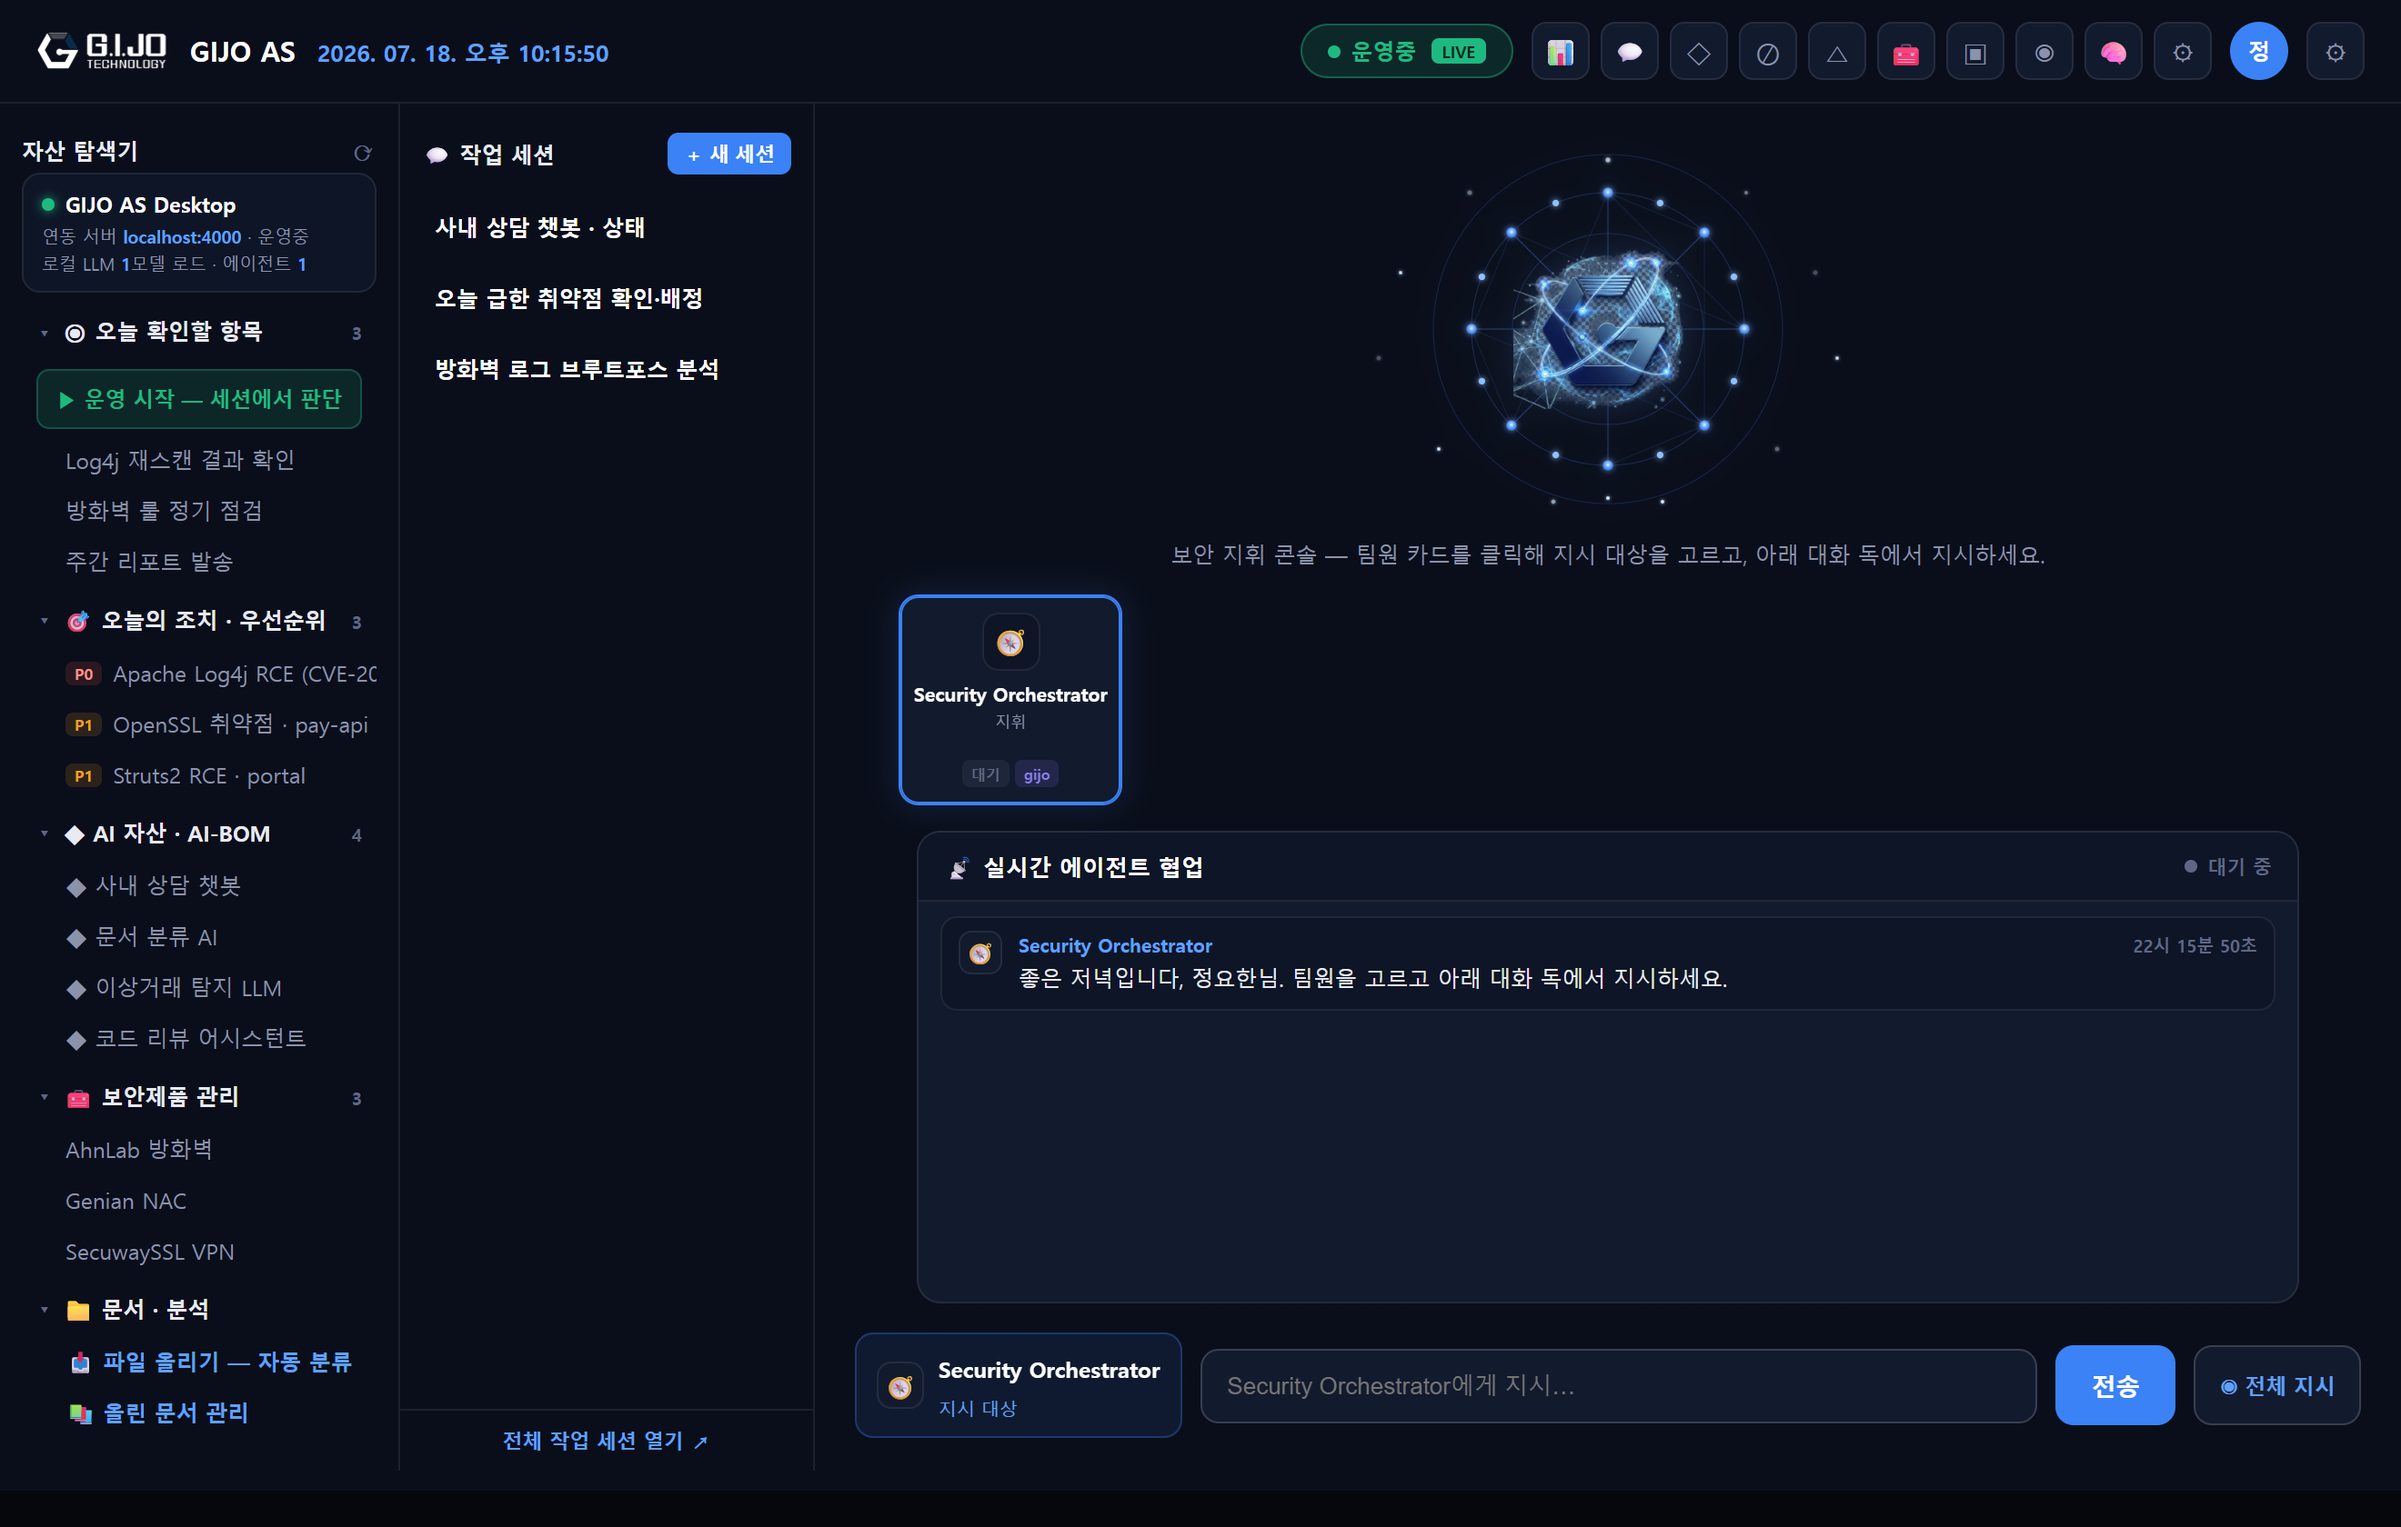
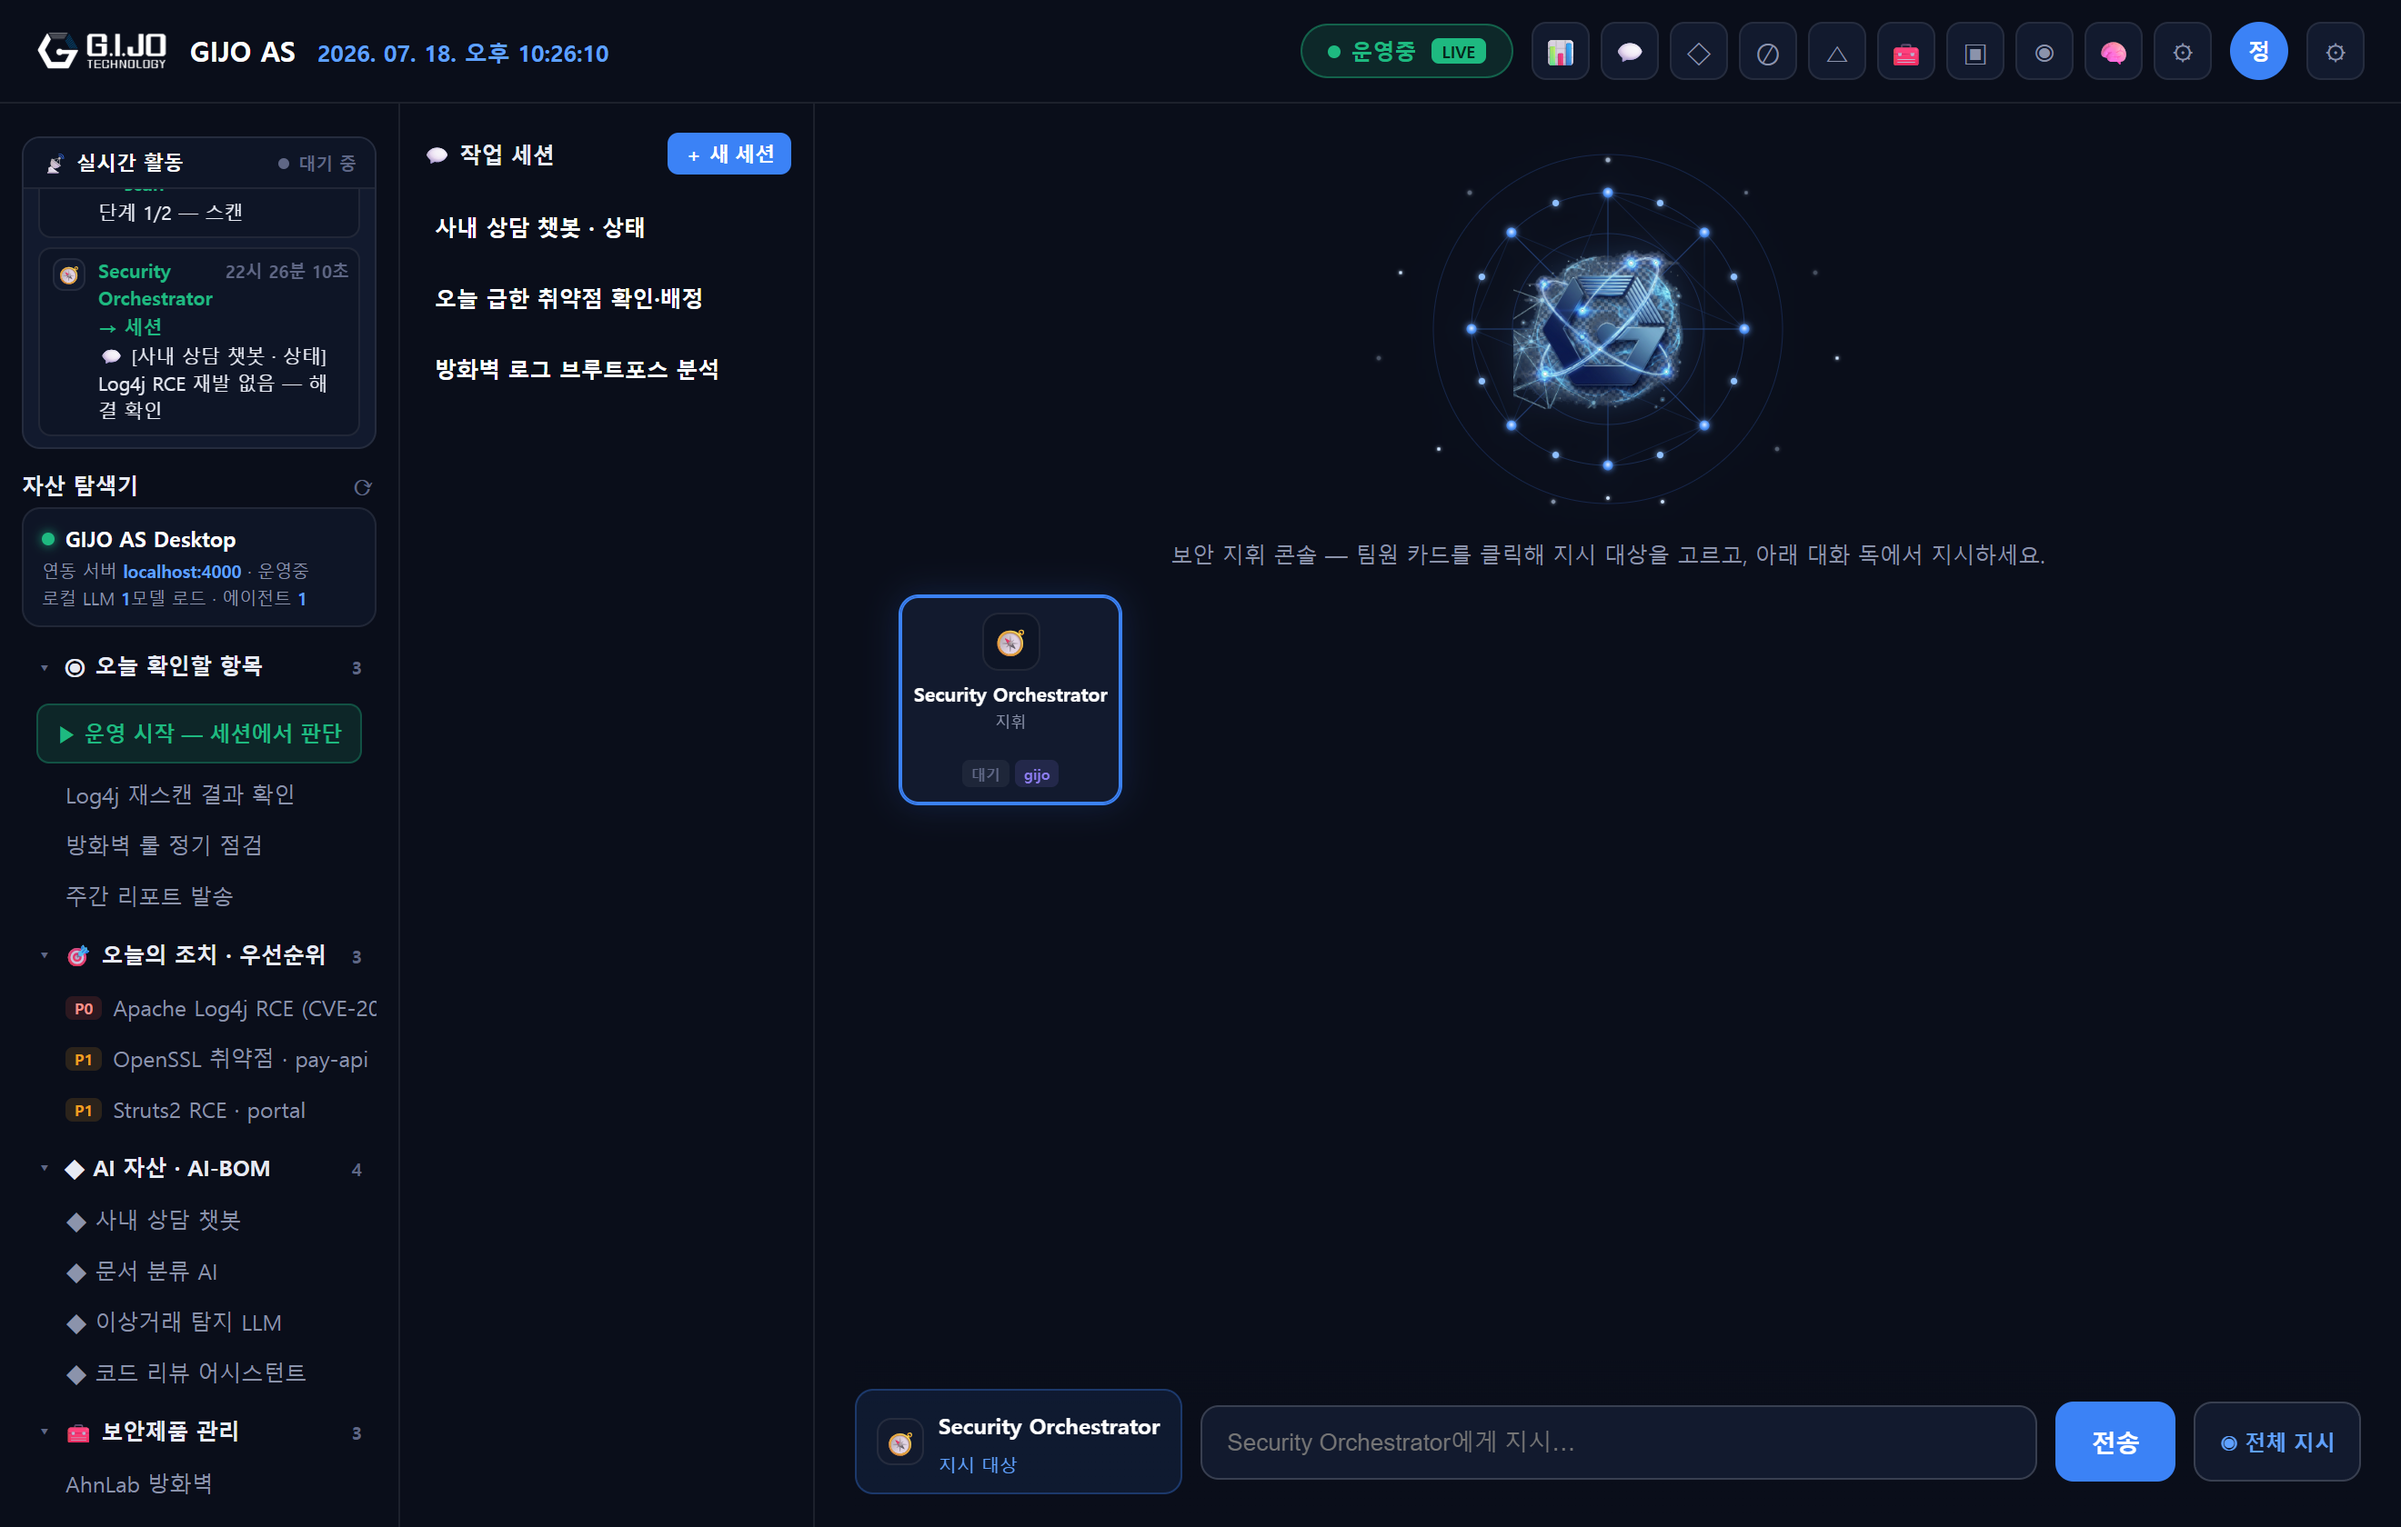
작업 세션 활동을 실시간 협업 로그에 표시 + 로그 콤팩트화(자산 탐색기 위로)
- dispatcher: 세션에서 온 지시·응답을 실시간 협업 이벤트로 발신(💬 [세션제목] 꼬리표, from="세션"). 자동 제목 반영 위해 user 턴 기록 후 제목 재조회
- dashboard: 실시간 협업 로그를 center-stage에서 좌측 "자산 탐색기 위"로 이동 + 콤팩트화(높이 172px·작은 폰트) → 중앙 공간 확보
- 테스트: 세션 지시 후 /api/collaboration/history에 세션 제목 꼬리표 이벤트 유입 검증. 전체 506 green
- 운영 서버(4000) 새 빌드로 재배포. 실 렌더 캡처로 확인(JS 오류 0)

diff --git a/client/src/renderer/pages/dashboard.html b/client/src/renderer/pages/dashboard.html
@@ -128,20 +128,20 @@
 
   .stage-core{position:relative;width:100%;max-width:300px;}
 
-  /* 실시간 에이전트 협업 — 지휘 콘솔 아래 전체 폭, 남은 세로 공간을 꽉 채운다(flex:1). 지시·위임·답변 라이브. */
-  .collab-live{width:100%;max-width:760px;margin-top:14px;background:var(--panel);border:1px solid var(--border);border-radius:13px;overflow:hidden;display:flex;flex-direction:column;flex:1 1 auto;min-height:150px;}
-  .cl-head{display:flex;align-items:center;justify-content:space-between;padding:10px 14px;background:var(--panel-2);border-bottom:1px solid var(--border);flex:0 0 auto;}
-  .cl-title{font-size:12.5px;font-weight:800;color:#fff;}
-  .cl-status{font-size:10.5px;font-weight:800;color:var(--muted-2);display:flex;align-items:center;gap:6px;}
-  .cl-status .cl-dot{width:7px;height:7px;border-radius:50%;background:var(--muted-2);}
+  /* 실시간 에이전트 협업 — 콤팩트, 좌측 자산 탐색기 위. 세션·에이전트 활동이 흐른다(높이 제한+스크롤). */
+  .collab-live{width:100%;background:var(--panel);border:1px solid var(--border);border-radius:10px;overflow:hidden;display:flex;flex-direction:column;margin-bottom:12px;max-height:172px;}
+  .cl-head{display:flex;align-items:center;justify-content:space-between;padding:6px 10px;background:var(--panel-2);border-bottom:1px solid var(--border);flex:0 0 auto;}
+  .cl-title{font-size:11px;font-weight:800;color:#fff;}
+  .cl-status{font-size:9.5px;font-weight:800;color:var(--muted-2);display:flex;align-items:center;gap:5px;}
+  .cl-status .cl-dot{width:6px;height:6px;border-radius:50%;background:var(--muted-2);}
   .cl-status.busy{color:var(--blue-light);}
   .cl-status.busy .cl-dot{background:var(--blue-light);animation:clblink 0.9s infinite;}
   @keyframes clblink{0%,100%{opacity:.35}50%{opacity:1}}
-  .cl-rows{flex:1 1 auto;min-height:0;overflow-y:auto;padding:8px 12px;display:flex;flex-direction:column;gap:6px;}
-  .cl-empty{font-size:11.5px;color:var(--muted-2);padding:10px 2px;}
-  .cl-row{display:flex;gap:9px;align-items:flex-start;font-size:12px;line-height:1.55;padding:7px 9px;border-radius:9px;background:var(--panel-2);border:1px solid var(--border);animation:clpop .25s ease-out;}
+  .cl-rows{flex:1 1 auto;min-height:0;overflow-y:auto;padding:6px 8px;display:flex;flex-direction:column;gap:5px;}
+  .cl-empty{font-size:10.5px;color:var(--muted-2);padding:8px 2px;line-height:1.5;}
+  .cl-row{display:flex;gap:7px;align-items:flex-start;font-size:10.5px;line-height:1.45;padding:5px 7px;border-radius:7px;background:var(--panel-2);border:1px solid var(--border);animation:clpop .25s ease-out;}
   @keyframes clpop{from{opacity:0;transform:translateY(4px)}to{opacity:1;transform:none}}
-  .cl-row .ci{width:24px;height:24px;border-radius:7px;background:var(--panel);border:1px solid var(--border);display:flex;align-items:center;justify-content:center;font-size:12px;flex:0 0 auto;}
+  .cl-row .ci{width:18px;height:18px;border-radius:6px;background:var(--panel);border:1px solid var(--border);display:flex;align-items:center;justify-content:center;font-size:10px;flex:0 0 auto;}
   .cl-row .cb{flex:1;min-width:0;}
   .cl-row .cn{font-size:10.5px;font-weight:800;color:var(--blue-light);margin-bottom:1px;display:flex;gap:7px;align-items:baseline;}
   .cl-row .cn .ct{font-weight:600;color:var(--muted-2);font-size:9.5px;margin-left:auto;flex:0 0 auto;}
@@ -294,6 +294,14 @@
 
   <div class="body-grid">
     <div class="explorer">
+      <!-- 실시간 에이전트 협업 — 콤팩트, 자산 탐색기 위. 세션·에이전트 활동이 여기 흐른다. -->
+      <div class="collab-live" id="collabLive">
+        <div class="cl-head">
+          <span class="cl-title">📡 실시간 활동</span>
+          <span class="cl-status" id="clStatus"><span class="cl-dot"></span>대기 중</span>
+        </div>
+        <div class="cl-rows" id="clRows"><div class="cl-empty">지시하면 여기서 실시간으로 흐릅니다.</div></div>
+      </div>
       <div class="explorer-title"><span>자산 탐색기</span><span class="tree-act" id="refreshAssetsBtn" title="새로고침">⟳</span></div>
       <div class="server-card">
         <div class="sc-nm"><span class="sc-dot" id="scDot"></span>GIJO AS Desktop</div>
@@ -403,14 +411,7 @@
       </div>
       <div class="console-caption" id="consoleCaption">보안 지휘 콘솔 — 팀원 카드를 클릭해 지시 대상을 고르고, 아래 대화 독에서 지시하세요.</div>
       <div class="team-grid" id="teamGrid"><div style="grid-column:1/-1;text-align:center;color:var(--muted);font-size:12px">팀원 불러오는 중...</div></div>
-      <!-- 실시간 에이전트 협업 — 지휘 콘솔 바로 아래 전체 폭. 지시·위임·답변이 동작하는 형태로 흐른다. -->
-      <div class="collab-live" id="collabLive">
-        <div class="cl-head">
-          <span class="cl-title">📡 실시간 에이전트 협업</span>
-          <span class="cl-status" id="clStatus"><span class="cl-dot"></span>대기 중</span>
-        </div>
-        <div class="cl-rows" id="clRows"><div class="cl-empty">협업 이벤트 대기 중 — 팀원에게 지시하면 여기서 실시간으로 흐릅니다.</div></div>
-      </div>
+      <!-- 실시간 에이전트 협업 로그는 좌측 "자산 탐색기 위"로 이동(콤팩트 — 중앙 공간 확보). -->
       <!-- 모델 미준비 안내: AI 답변에 모델이 필요할 때 두 경로를 함께 제시(로컬 모델 받기 / 사내 서버 연결). -->
       <div class="model-guide" id="modelGuide" style="display:none">
         <div class="mg-title">⚠ AI 모델이 준비되지 않았습니다 — 답변을 받으려면 아래 중 하나를 하세요</div>

diff --git a/server/src/engine/dispatcher.ts b/server/src/engine/dispatcher.ts
@@ -277,9 +277,20 @@ export async function dispatchInstruction(instructionText: string, sessionId?: s
   const session = sessionId ? getSession(sessionId) : null;
   // 맥락은 이번 지시를 기록하기 "전" 시점의 대화로 계산한다(방금 넣은 user 턴이 맥락에 중복되지 않게).
   const contextText = session ? recentTurnsText(session.id) : "";
-  if (session) appendTurn(session.id, "user", instructionText);
+  let title = session?.title;
+  if (session) {
+    appendTurn(session.id, "user", instructionText);
+    // 첫 지시면 방금 자동 지정된 제목을 로그에 쓰기 위해 다시 읽는다("새 세션" 대신 실제 제목).
+    title = getSession(session.id)?.title ?? title;
+    // 작업 세션의 지시를 실시간 에이전트 협업 로그에도 흘린다 — 세션 제목으로 꼬리표를 달아
+    // "어느 세션에서 온 작업인지"가 로그에 드러나게 한다(대시보드 📡 실시간 협업 피드에 표시).
+    emitCollaboration({ from: "세션", to: "orchestrator", message: `💬 [${title}] ${instructionText}` });
+  }
   const result = await dispatchInstructionCore(instructionText, contextText);
-  if (session) appendTurn(session.id, "assistant", result.output, turnToolTag(result));
+  if (session) {
+    appendTurn(session.id, "assistant", result.output, turnToolTag(result));
+    emitCollaboration({ from: "orchestrator", to: "세션", message: `💬 [${title}] ${result.output.slice(0, 140)}` });
+  }
   return session ? { ...result, sessionId: session.id } : result;
 }
 

diff --git a/server/test/dispatcher.test.ts b/server/test/dispatcher.test.ts
@@ -152,6 +152,12 @@ describe("dispatcher + intent + assets integration", () => {
       expect(detail.body.turns[1].role).toBe("assistant");
       // 첫 user 턴이 세션 제목을 자동으로 지었는지
       expect(detail.body.session.title).toBe("오늘 상태 어때?");
+
+      // 세션 지시·응답이 실시간 협업 로그에도 세션 제목 꼬리표로 흘렀는지
+      const collab = await request(app).get("/api/collaboration/history").set("Authorization", `Bearer ${token}`);
+      const sessionEvents = collab.body.filter((e: { message: string }) => e.message.includes("[오늘 상태 어때?]"));
+      expect(sessionEvents.length).toBeGreaterThanOrEqual(2); // 지시(💬) + 응답(💬)
+      expect(sessionEvents.some((e: { from: string }) => e.from === "세션")).toBe(true);
     });
 
     it("sessionId 없이 지시하면 세션이 만들어지지 않는다(종전 동작 보존)", async () => {
